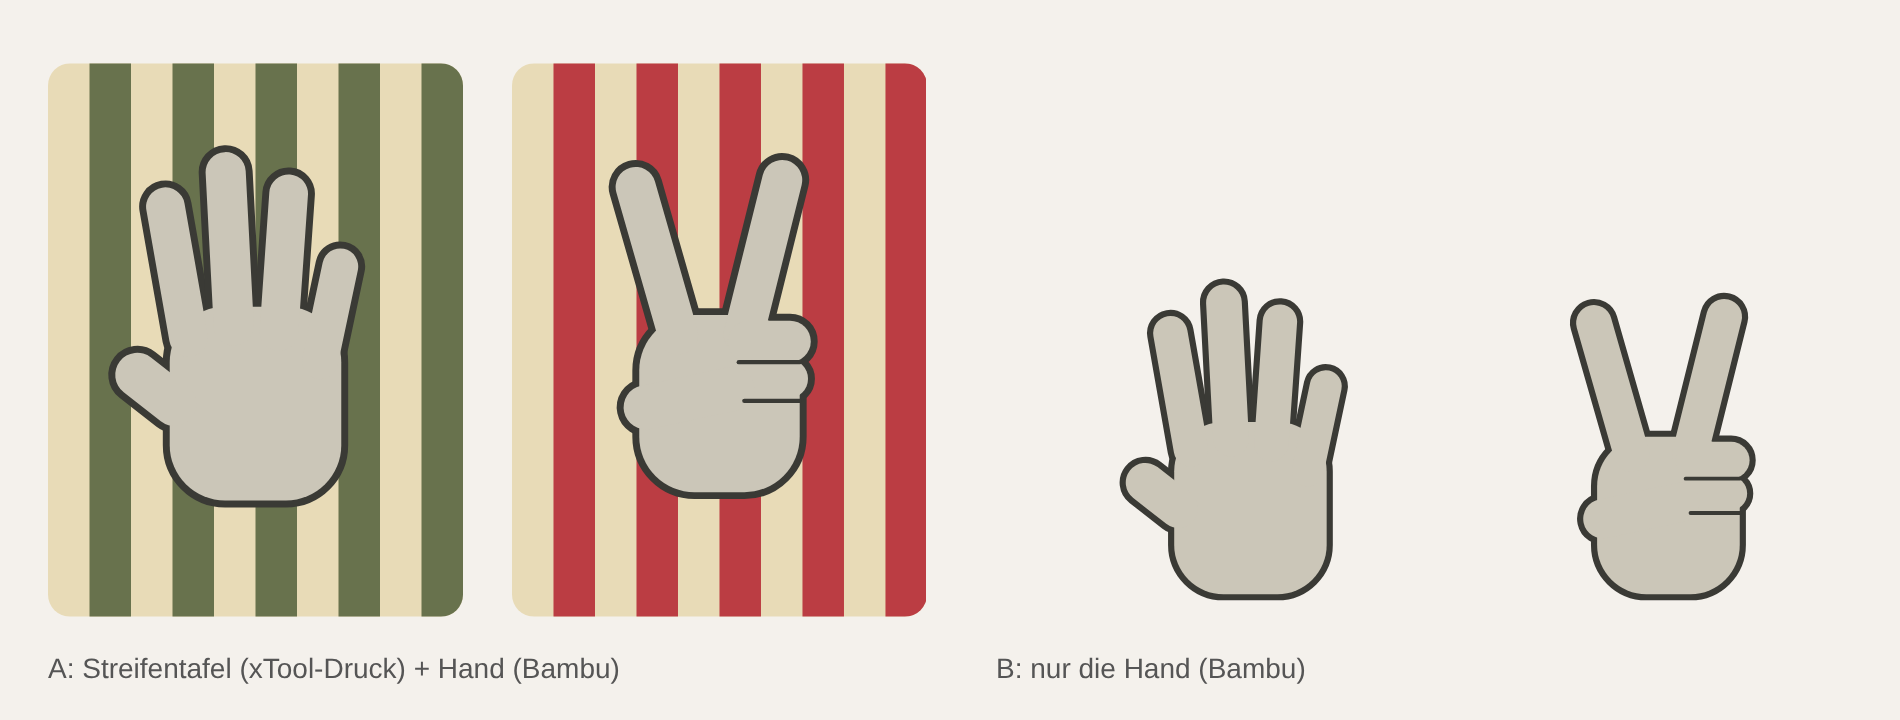
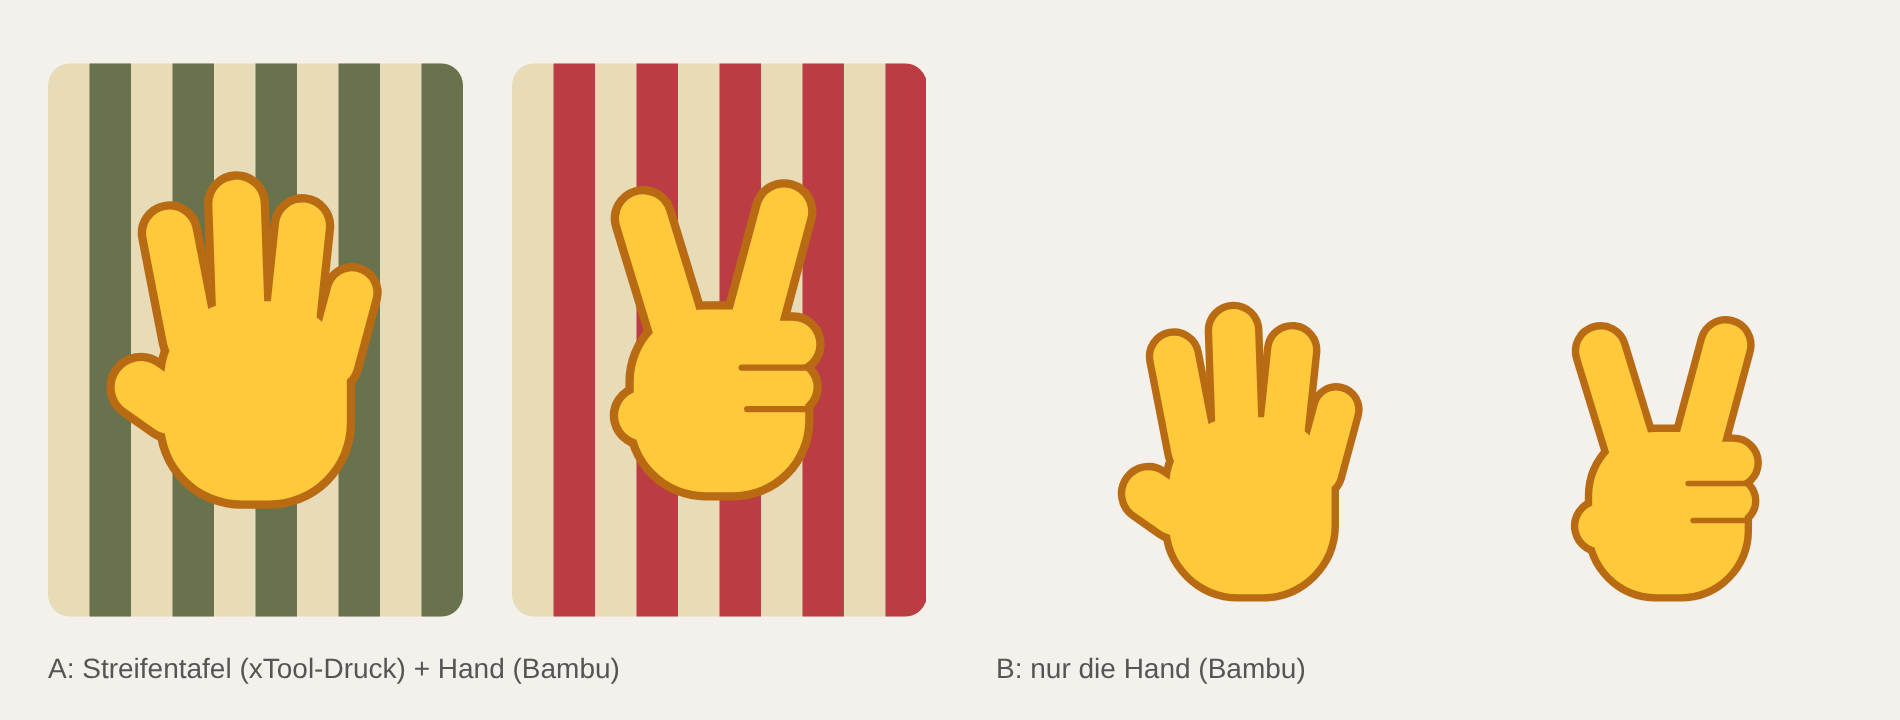
Restyle hand signs in emoji look (yellow, rounder, warm outline)
Claude-Session: https://claude.ai/code/session_01R4zgv3VCymDjUgCX1ve87D

diff --git a/designs/handzeichen/generate.py b/designs/handzeichen/generate.py
@@ -8,8 +8,9 @@ Aufruf: python3 generate.py <ausgabeordner>
 import sys
 
 OUT = sys.argv[1] if len(sys.argv) > 1 else "."
-OUTLINE = "#3A3A35"
-HAND = "#CBC6B8"
+# Emoji-Look: warmes Gelb, Kontur in Honigbraun statt Schwarz
+OUTLINE = "#B86B12"
+HAND = "#FFC93C"
 
 
 def capsule(cx, base_y, length, width, angle):
@@ -20,36 +21,36 @@ def capsule(cx, base_y, length, width, angle):
 
 def high_five():
     shapes = [
-        '<rect x="44" y="78" width="62" height="70" rx="20"/>',  # Handfläche bis Handgelenk
-        capsule(52, 96, 62, 14, -10),     # Zeigefinger
-        capsule(67.5, 92, 70, 14.5, -3),  # Mittelfinger
-        capsule(83, 94, 64, 14, 4),       # Ringfinger
-        capsule(97, 104, 48, 13, 12),     # kleiner Finger
-        capsule(52, 118, 33, 16, -52),    # Daumen
+        '<rect x="42" y="76" width="66" height="72" rx="28"/>',  # Handfläche, rund
+        capsule(53, 98, 56, 17, -11),     # Zeigefinger
+        capsule(70, 94, 62, 17.5, -2),    # Mittelfinger
+        capsule(87, 96, 56, 17, 6),       # Ringfinger
+        capsule(101, 106, 42, 15.5, 15),  # kleiner Finger
+        capsule(52, 120, 32, 19, -55),    # Daumen
     ]
     return shapes, []
 
 
 def peace():
     shapes = [
-        '<rect x="46" y="86" width="58" height="64" rx="20"/>',  # Handfläche bis Handgelenk
-        capsule(62, 100, 70, 14.5, -16),  # Zeigefinger
-        capsule(82, 100, 72, 14.5, 14),   # Mittelfinger
-        '<rect x="78" y="88" width="30" height="15" rx="7.5"/>',  # Ringfinger eingeklappt
-        '<rect x="80" y="102" width="27" height="14" rx="7"/>',   # kleiner Finger eingeklappt
-        '<rect x="40" y="108" width="48" height="16" rx="8" transform="rotate(-12 64 116)"/>',  # Daumen
+        '<rect x="44" y="84" width="62" height="66" rx="26"/>',  # Handfläche, rund
+        capsule(63, 102, 62, 17.5, -17),  # Zeigefinger
+        capsule(84, 102, 64, 17.5, 15),   # Mittelfinger
+        '<rect x="78" y="88" width="32" height="17" rx="8.5"/>',  # Ringfinger eingeklappt
+        '<rect x="80" y="104" width="29" height="16" rx="8"/>',   # kleiner Finger eingeklappt
+        '<rect x="38" y="110" width="50" height="18" rx="9" transform="rotate(-12 63 119)"/>',  # Daumen
     ]
     # Nur die Trennlinien der eingeklappten Finger – ohne sie liest man das Peace-Zeichen nicht.
-    lines = ['<path d="M82,103 h22"/>', '<path d="M84,117 h20"/>']
+    lines = ['<path d="M83,105 h23"/>', '<path d="M85,120 h21"/>']
     return shapes, lines
 
 
 def hand_group(fn, dx=0, dy=0, fill=HAND):
     shapes, lines = fn()
     s = "".join(shapes)
-    out = f'<g fill="{OUTLINE}" stroke="{OUTLINE}" stroke-width="5" stroke-linejoin="round">{s}</g>'
+    out = f'<g fill="{OUTLINE}" stroke="{OUTLINE}" stroke-width="6" stroke-linejoin="round">{s}</g>'
     body = f'<g fill="{fill}">{s}</g>'
-    det = (f'<g fill="none" stroke="{OUTLINE}" stroke-width="1.6" stroke-linecap="round">{"".join(lines)}</g>'
+    det = (f'<g fill="none" stroke="{OUTLINE}" stroke-width="2.2" stroke-linecap="round">{"".join(lines)}</g>'
            if lines else "")
     return f'<g transform="translate({dx},{dy})">{out}{body}{det}</g>'
 
